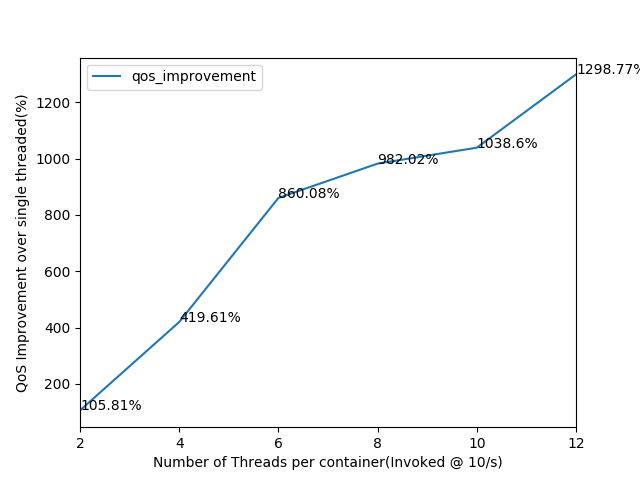
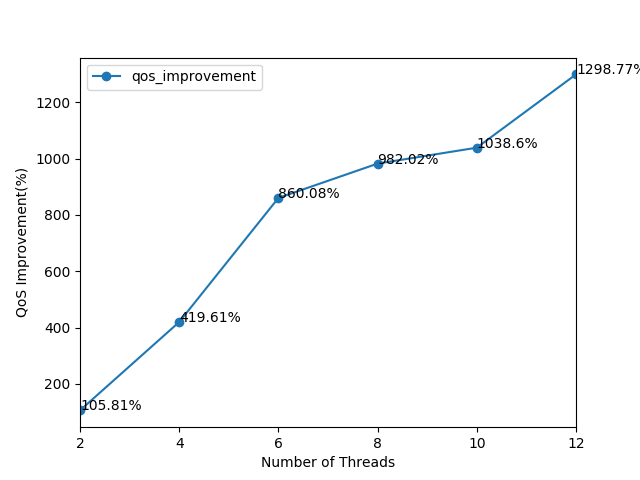
Adding plots for execution time, QoS

diff --git a/experiments/mt_roi/plot.py b/experiments/mt_roi/plot.py
@@ -74,16 +74,17 @@ def func(test_name):
 
     #waitTime is the difference between the time at which an event was triggered and the time at which 
     #the function started executing. Hence, waitTime = startTime-invokeTime.
+    test_df['executionTime'] = test_df['duration'] - test_df['initTime']
     test_df['invokeTime'] = test_df['start'] - test_df['waitTime']
     test_df['latency'] = test_df['duration'] + test_df['waitTime']
     firstInvoke = test_df['invokeTime'].min()
     test_df['invokeTimeRel'] = (test_df['invokeTime'] - firstInvoke)/1000.0	
-    requested_frame = test_df[['invokeTimeRel', 'latency']].sort_values('invokeTimeRel', ascending=True)
+    requested_frame = test_df[['invokeTimeRel', 'latency', 'executionTime']].sort_values('invokeTimeRel', ascending=True)
     return requested_frame 
 
 def main(benchmark, machine):
-    runs = [1]
-    threads = [2]
+    runs = [1,2]
+    threads = [4,8,10]
 
     axes =[]
     plt.figure()
@@ -94,34 +95,39 @@ def main(benchmark, machine):
         os.makedirs(img_dir, 0o777)
 
     qos_results = {'single_thread':[], 'multi_thread':[], 'num_threads':[], 'qos_improvement':[]}
+    execution_time = {'single_thread':[], 'multi_thread':[], 'num_threads':[]}
 
     for j in threads: #number of threads
-        balanced_test_name = machine + "/balanced_roi/" + benchmark + "/1_" + str(50)#str(10*j)
+        balanced_test_name = machine + "/balanced_roi/" + benchmark + "/1_" + str(10*j)
         balanced_df = func(balanced_test_name)
         single_thread_QoS = balanced_df['latency'].quantile(0.99)
         label= str(10*j) + ",1"
         axes = balanced_df.plot(y='latency',x='invokeTimeRel', label=label)
 
+        execution_time['num_threads'].append(j)
+        execution_time['single_thread'].append(balanced_df['executionTime'].quantile(0.99))
+
         multi_thread_QoS = 0
+        multi_thread_execution_time = 0
         for k in runs: #run number
             mt_test_name = machine + "/mt_roi/" + benchmark + "/" + str(k) + "_" + str(j)
             try:
                 df = func(mt_test_name)
                 label="10, "+ str(j)
+                multi_thread_execution_time += df['executionTime'].quantile(0.99)
                 multi_thread_QoS += df['latency'].quantile(0.99)
                 df.plot(y='latency', x='invokeTimeRel', label=label, ax=axes)
             except Exception as e:
                 print("Plot failed for run ", str(k), ", ROI ", str(j))
                 print(e)
 
+        multi_thread_execution_time = multi_thread_execution_time/(1.0*len(runs)*j)
+        execution_time['multi_thread'].append(multi_thread_execution_time)
         multi_thread_QoS = multi_thread_QoS/(1.0*len(runs))
-
         qos_results['num_threads'].append(j)
         qos_results['single_thread'].append(single_thread_QoS)
         qos_results['multi_thread'].append(multi_thread_QoS)
         qos_results['qos_improvement'].append((100.0*(single_thread_QoS-multi_thread_QoS)/multi_thread_QoS))
-
-        pdb.set_trace()
 
         img = img_dir + "/latency_" + str(j) + ".png"
         plt.ylabel("Total Latency")
@@ -131,8 +137,24 @@ def main(benchmark, machine):
         plt.close()
         plt.figure()
 
+    execution_time = pd.DataFrame(execution_time)
+    et_axes = execution_time.plot(y='single_thread', x='num_threads', c = 'red', label='Single Thread', marker='o')
+    execution_time.plot(y='multi_thread', x='num_threads', c = 'green', ax=et_axes, label='Multi Thread', marker='o')
+
+    for i, val in enumerate(execution_time['num_threads']):
+        et_axes.annotate(str(round(execution_time['single_thread'][i],2)), (val,execution_time['single_thread'][i] ))
+        et_axes.annotate(str(round(execution_time['multi_thread'][i],2)), (val,execution_time['multi_thread'][i] ))
+
+    img = img_dir + "/ExecutionTime.png"
+    plt.ylabel("99%ile Cost per user")
+    plt.xlabel("No. of workers")
+    plt.legend(title="Container Type")
+    plt.savefig(img)
+    plt.close()
+    plt.figure()
+
     qos_results = pd.DataFrame(qos_results)
-    qos_axes = qos_results.plot(y='qos_improvement', x='num_threads', kind = 'scatter')
+    qos_axes = qos_results.plot(y='qos_improvement', x='num_threads', marker='o')
     
     for i, val in enumerate(qos_results['qos_improvement']):
         qos_axes.annotate(str(round(val,2))+"%", (qos_results['num_threads'][i], qos_results['qos_improvement'][i]))
